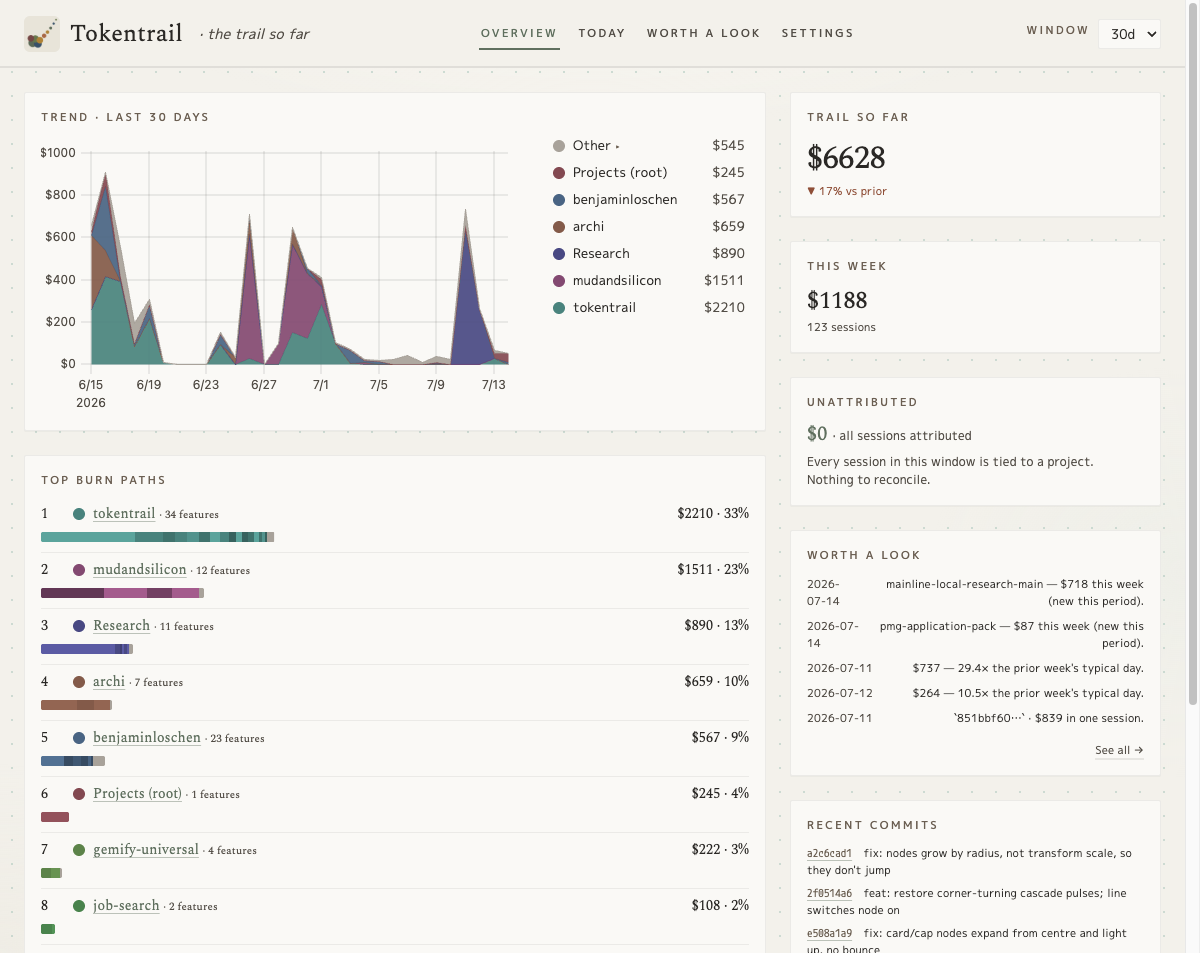
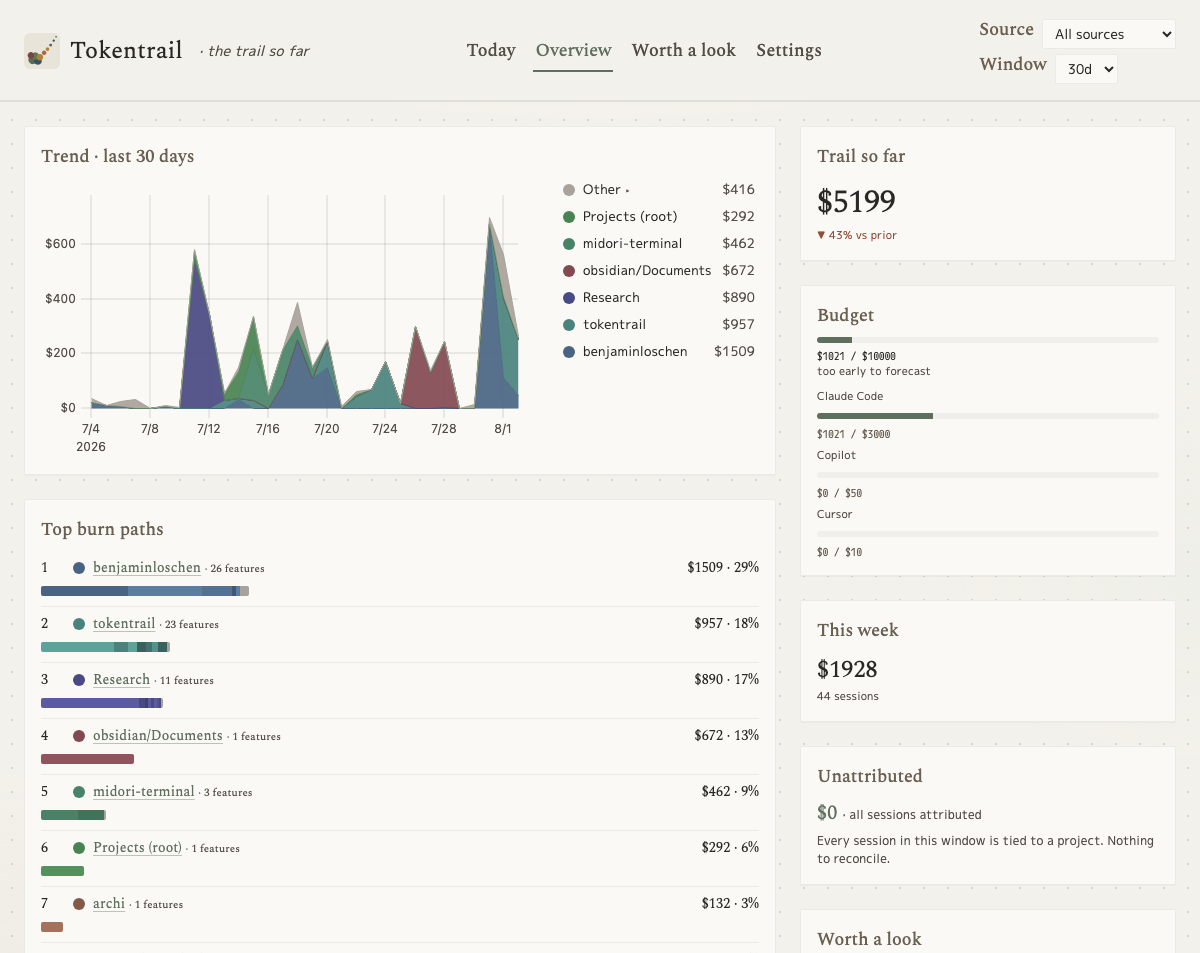
docs(marketing): refresh screenshots + README for v0.14.0 UI
Re-capture all 8 marketing screenshots (1200×953 desktop, 390×844 mobile)
from the v0.14.0 dashboard so they reflect the Spectral naming voice and
the mobile card order. Update the README "Light / dark theme" section:
the header sun/moon toggle is gone — theme is now Settings → Appearance
(System / Light / Dark).

Claude-Session: https://claude.ai/code/session_016dTq22mquonUMCiPGTSWxS

diff --git a/README.md b/README.md
@@ -503,9 +503,11 @@ and sync stay on the CLI for now. Stop the dashboard with Ctrl-C.
 
 ### Light / dark theme
 
-The dashboard follows your OS light/dark preference out of the box, and the
-sun/moon button in the header toggles it manually (the choice persists in
-`localStorage` and applies before first paint, so there's no flash on reload).
+The dashboard follows your OS light/dark preference out of the box. To pin it,
+open **Settings → Appearance** and choose **System**, **Light**, or **Dark** —
+**System** tracks your OS (updating live when it flips), while **Light** and
+**Dark** force a fixed theme. The choice persists per device in `localStorage`
+and applies before first paint, so there's no flash on reload.
 The whole palette is driven by CSS custom properties in
 [`src/dashboard/tokens.ts`](src/dashboard/tokens.ts) — one place to adjust
 either theme. Both the light "paper" and dark palettes mirror
